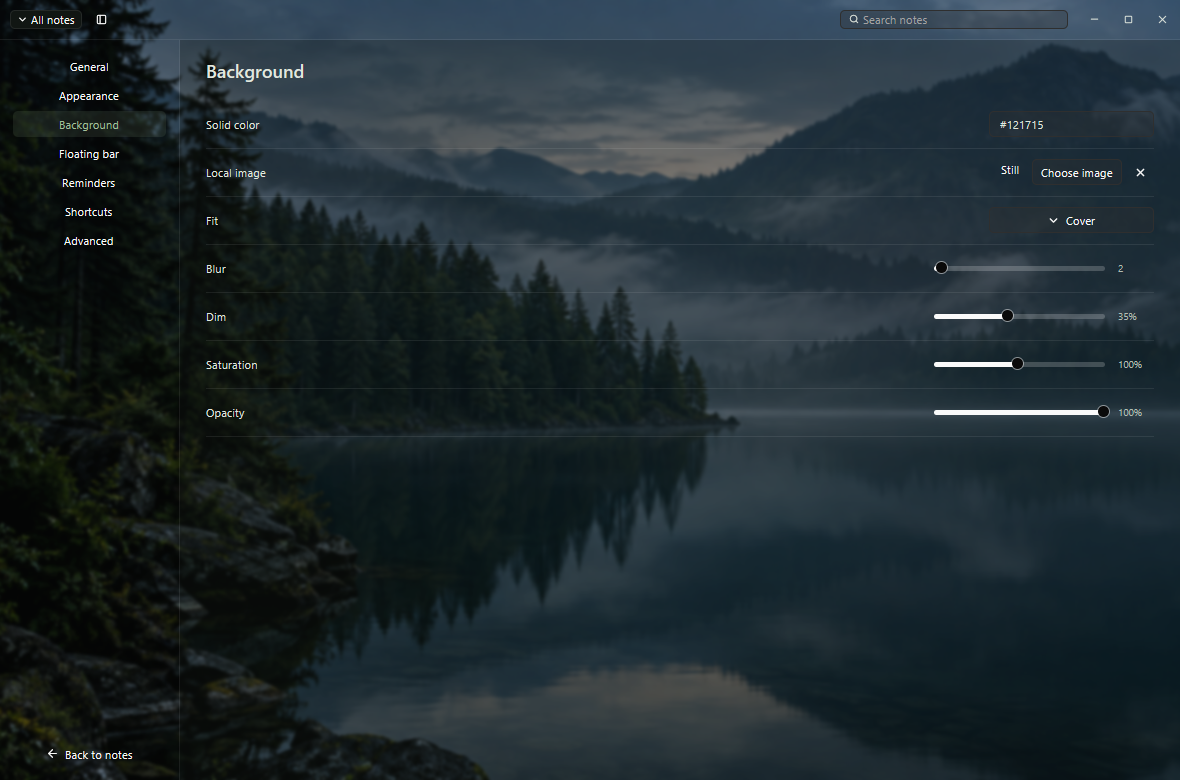
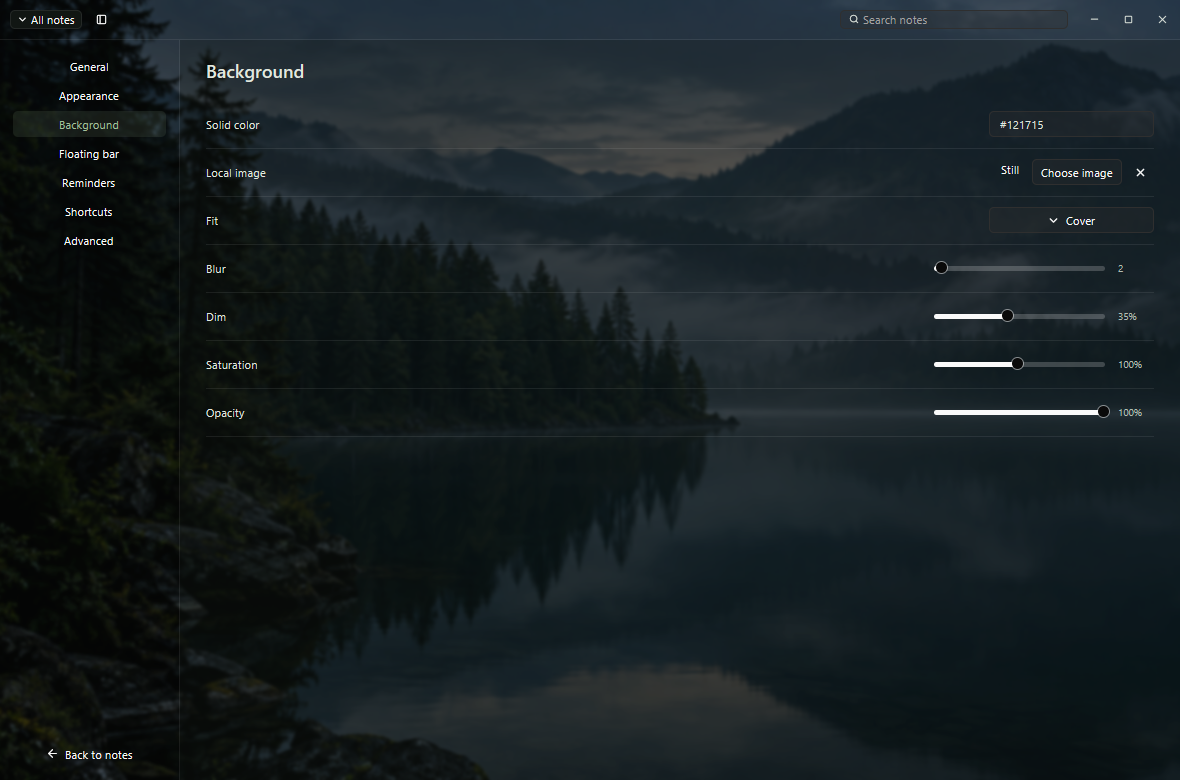
fix: make background dim match the slider across its full range

diff --git a/tests/ui.rs b/tests/ui.rs
@@ -10,6 +10,62 @@ use still::{
 };
 
 #[gpui_kit::test]
+fn dim_slider_changes_tint_and_overlay_covers_the_image(cx: &mut TestAppContext) {
+    cx.dispatcher.allow_parking();
+    let path = std::env::temp_dir().join(format!("still-dim-{}.sqlite", uuid::Uuid::new_v4()));
+    let (store, _, _, _) = Store::start(path.clone()).expect("database");
+    let settings = Settings {
+        default_wallpaper: false,
+        background_dim: 0.,
+        reduced_motion: true,
+        ..Settings::default()
+    };
+    cx.update(gpui_kit::init);
+    cx.update(|cx| still::theme::apply(&settings, cx));
+    let state = cx.new(|cx| AppState::new(store.clone(), settings, Session::default(), cx));
+    state.update(cx, |state, _| {
+        state.background =
+            Some(std::path::Path::new(env!("CARGO_MANIFEST_DIR")).join("assets/still-lake.png"));
+        state.settings_page = Some("Background".into());
+    });
+    let (handle, _) = cx.update(|cx| {
+        gpui_kit::open_window(WindowOptions::default(), cx, |window, cx| {
+            cx.new(|cx| AppWindow::new(state.clone(), window, cx))
+        })
+        .expect("window")
+    });
+    cx.update_window(handle, |_, window, cx| {
+        window.render_frame(cx);
+        assert_eq!(
+            window.find("wallpaper-dim").bounds(),
+            window.find("wallpaper-layer").bounds(),
+            "Tint must cover the image rather than follow it in layout"
+        );
+        window.click_at(
+            "settings-slider-dim",
+            gpui_kit::point(gpui_kit::px(42.), gpui_kit::px(8.)),
+            cx,
+        );
+    })
+    .expect("adjust Dim");
+    cx.run_until_parked();
+    state.read_with(cx, |state, _| {
+        let dim = state.settings.background_dim;
+        assert!(
+            dim > 0. && dim < 0.58,
+            "Low Dim changes must reach settings: {dim}"
+        );
+        assert_eq!(still::theme::background_dim(&state.settings), dim);
+    });
+    store
+        .request(Request::Shutdown)
+        .recv_blocking()
+        .expect("shutdown")
+        .expect("flush");
+    std::fs::remove_file(path).expect("cleanup");
+}
+
+#[gpui_kit::test]
 fn legacy_appearance_upgrade_preserves_chosen_preferences(cx: &mut TestAppContext) {
     let path =
         std::env::temp_dir().join(format!("still-preferences-{}.sqlite", uuid::Uuid::new_v4()));
@@ -55,36 +111,48 @@ fn custom_wallpapers_keep_editor_text_readable_in_both_themes(cx: &mut TestAppCo
     cx.update(gpui_kit::init);
     for theme in ["Dark", "Light"] {
         for surface in ["Opaque", "Frosted", "Clear"] {
-            let settings = Settings {
-                theme: theme.into(),
-                surface: surface.into(),
-                background_image: Some("white-test-wallpaper.png".into()),
-                background_dim: 0.,
-                ..Settings::default()
-            };
-            cx.update(|cx| {
-                still::theme::apply(&settings, cx);
-                let palette = still::theme::surfaces(&settings, cx);
-                let paper = gpui_kit::Rgba::from(palette.paper);
-                // White is the worst backdrop for the dark theme; black for light.
-                let source = if theme == "Dark" {
-                    1. - still::theme::background_dim(&settings, cx)
-                } else {
-                    0.
+            for dim in [0., 0.05, 0.2, 0.35, 0.5, 0.65, 0.8] {
+                let settings = Settings {
+                    theme: theme.into(),
+                    surface: surface.into(),
+                    background_image: Some("white-test-wallpaper.png".into()),
+                    background_dim: dim,
+                    ..Settings::default()
                 };
-                let background = gpui_kit::Rgba {
-                    r: paper.r * paper.a + source * (1. - paper.a),
-                    g: paper.g * paper.a + source * (1. - paper.a),
-                    b: paper.b * paper.a + source * (1. - paper.a),
-                    a: 1.,
-                };
-                for text in [palette.text, palette.muted] {
-                    let a = luminance(background);
-                    let b = luminance(text.into());
-                    let contrast = (a.max(b) + 0.05) / (a.min(b) + 0.05);
-                    assert!(contrast >= 4.5, "{theme}/{surface}: contrast {contrast}");
-                }
-            });
+                cx.update(|cx| {
+                    still::theme::apply(&settings, cx);
+                    assert_eq!(
+                        still::theme::background_dim(&settings),
+                        dim,
+                        "{theme}/{surface}: Dim must match the displayed percentage"
+                    );
+                    let palette = still::theme::surfaces(&settings, cx);
+                    // White is the worst backdrop for the dark theme; black for light.
+                    let source = if theme == "Dark" {
+                        1. - still::theme::background_dim(&settings)
+                    } else {
+                        0.
+                    };
+                    for panel in [palette.paper, palette.sidebar, palette.canvas] {
+                        let paper = gpui_kit::Rgba::from(panel);
+                        let background = gpui_kit::Rgba {
+                            r: paper.r * paper.a + source * (1. - paper.a),
+                            g: paper.g * paper.a + source * (1. - paper.a),
+                            b: paper.b * paper.a + source * (1. - paper.a),
+                            a: 1.,
+                        };
+                        for text in [palette.text, palette.muted] {
+                            let a = luminance(background);
+                            let b = luminance(text.into());
+                            let contrast = (a.max(b) + 0.05) / (a.min(b) + 0.05);
+                            assert!(
+                                contrast >= 4.5,
+                                "{theme}/{surface}/{dim}: contrast {contrast}"
+                            );
+                        }
+                    }
+                });
+            }
         }
     }
 }

diff --git a/src/theme.rs b/src/theme.rs
@@ -80,13 +80,30 @@ pub fn apply(settings: &Settings, cx: &mut App) {
 
 pub fn surfaces(settings: &Settings, cx: &App) -> Palette {
     let mut p = palette(cx);
-    let (paper, sidebar, canvas) = match (settings.surface.as_str(), Theme::global(cx).is_dark()) {
-        ("Frosted", true) => (0.42, 0.66, 0.22),
-        ("Clear", true) => (0.28, 0.48, 0.16),
-        ("Frosted", false) => (0.72, 0.84, 0.62),
-        ("Clear", false) => (0.68, 0.8, 0.58),
-        _ => (0.98, 0.97, 0.96),
-    };
+    let (mut paper, mut sidebar, mut canvas) =
+        match (settings.surface.as_str(), Theme::global(cx).is_dark()) {
+            ("Frosted", true) => (0.42, 0.66, 0.22),
+            ("Clear", true) => (0.28, 0.48, 0.16),
+            ("Frosted", false) => (0.72, 0.84, 0.62),
+            ("Clear", false) => (0.68, 0.8, 0.58),
+            _ => (0.98, 0.97, 0.96),
+        };
+    // Protect foreground contrast on arbitrary (including white) backgrounds
+    // through the surfaces, without imposing a dead zone on the Dim control.
+    if Theme::global(cx).is_dark()
+        && (settings.background_image.is_some() || !settings.default_wallpaper)
+    {
+        let minimum = if settings.surface == "Frosted" {
+            0.82
+        } else {
+            0.78
+        };
+        paper = f32::max(paper, minimum);
+        sidebar = f32::max(sidebar, minimum);
+        canvas = f32::max(canvas, minimum);
+    } else if settings.background_image.is_some() || !settings.default_wallpaper {
+        canvas = f32::max(canvas, 0.78);
+    }
     p.paper = p.paper.alpha(paper);
     p.sidebar = p.sidebar.alpha(sidebar);
     p.canvas = p.canvas.alpha(canvas);
@@ -102,21 +119,8 @@ pub fn surfaces(settings: &Settings, cx: &App) -> Palette {
     p
 }
 
-pub fn background_dim(settings: &Settings, cx: &App) -> f32 {
-    // Custom images can be pure white. Preserve a readable foreground even
-    // when their dim slider is low; the bundled dark photograph needs less.
-    let minimum = if (settings.background_image.is_some() || !settings.default_wallpaper)
-        && Theme::global(cx).is_dark()
-    {
-        match settings.surface.as_str() {
-            "Clear" => 0.65,
-            "Frosted" => 0.58,
-            _ => 0.,
-        }
-    } else {
-        0.
-    };
-    settings.background_dim.clamp(0., 1.).max(minimum)
+pub fn background_dim(settings: &Settings) -> f32 {
+    settings.background_dim.clamp(0., 1.)
 }
 
 pub const LIST_WIDTH: f32 = 272.;

diff --git a/src/ui/app_window.rs b/src/ui/app_window.rs
@@ -704,7 +704,14 @@ impl Render for AppWindow {
         };
         let color = u32::from_str_radix(config.background_color.trim_start_matches('#'), 16)
             .unwrap_or(0xf6f5f1);
-        let mut background = div().absolute().size_full().bg(rgb(color));
+        let mut background = div()
+            .id("wallpaper-layer")
+            .test_support()
+            .absolute()
+            .top_0()
+            .left_0()
+            .size_full()
+            .bg(rgb(color));
         if let Some(path) = self.state.read(cx).background.clone() {
             background = background.child(
                 img(path)
@@ -719,9 +726,13 @@ impl Render for AppWindow {
         }
         background = background.child(
             div()
+                .id("wallpaper-dim")
+                .test_support()
                 .absolute()
+                .top_0()
+                .left_0()
                 .size_full()
-                .bg(rgb(0x000000).alpha(crate::theme::background_dim(&config, cx))),
+                .bg(rgb(0x000000).alpha(crate::theme::background_dim(&config))),
         );
         let mut root = div()
             .id("app")

diff --git a/src/ui/settings.rs b/src/ui/settings.rs
@@ -289,6 +289,8 @@ impl SettingsView {
         row(
             label,
             div()
+                .id(format!("settings-slider-{key}"))
+                .test_support()
                 .flex()
                 .items_center()
                 .gap_4()

diff --git a/docs/validation.md b/docs/validation.md
@@ -5,7 +5,7 @@ toolchain. The executable uses native GPUI rendering, not a browser.
 
 ## Checks
 
-- `cargo test --locked --features ui-testing`: 26 passing tests.
+- `cargo test --locked --features ui-testing`: 27 passing tests.
 - `cargo clippy --locked --features ui-testing --all-targets -- -D warnings`: clean.
 - `cargo fmt -- --check`: clean.
 - `cargo build --locked --release`: successful; UI testing features excluded.
@@ -18,7 +18,14 @@ toolchain. The executable uses native GPUI rendering, not a browser.
   [results](screenshots/results.png), [editor](screenshots/note.png),
   [reminder](screenshots/reminder.png) and [appearance](screenshots/settings.png).
 - Normal Windows launches and restored sessions were checked for callback errors.
-- Packaged Still 0.2.0 starts and flushes a graceful shutdown with a clean release log.
+- Packaged Still 0.2.1 starts and flushes a graceful shutdown with a clean release log.
+
+The 0.2.1 Dim fix anchors the tint to the image bounds and removes the hidden
+58%/65% minimum. A GPUI regression test clicks the actual slider and verifies
+the tint covers the image. Native captures at [0%](screenshots/dim-0.png),
+[20%](screenshots/dim-20.png) and [80%](screenshots/dim-80.png) show a custom
+wallpaper darkening across the range. Contrast checks cover editor, sidebar and
+chrome text at seven Dim values in both themes and all three surface modes.
 
 Tests cover migrations without data loss, Unicode and literal search, title
 ranking, pin/archive/delete, queued-write shutdown flushing, monthly recurrence
@@ -45,7 +52,8 @@ fail; the original code was restored before the final suite.
 
 ## Measurements
 
-Still 0.2.0 release executable: 31,051,264 bytes (29.61 MiB), including its local wallpaper.
+Still 0.2.1 release executable: 31,056,384 bytes (29.62 MiB), including its local wallpaper.
+The performance samples below were collected with 0.2.0.
 
 | Measurement | Result |
 |---|---:|

diff --git a/docs/architecture.md b/docs/architecture.md
@@ -61,8 +61,9 @@ a 200 ms interruptible spring, with a configurable Ctrl+B default.
 
 The bundled lake photograph remains local. Image transformations run off the
 UI thread and use an atomic disk cache keyed by source metadata and transform
-parameters. Dark translucent surfaces keep custom backgrounds readable through
-a minimum tint. Contrast checks cover editor text and secondary text across
+parameters. Dim changes the overlay opacity directly, without image processing
+or a minimum tint. Dark foreground surfaces keep custom backgrounds readable.
+Contrast checks cover editor text and secondary text across
 Light/Dark and Opaque/Frosted/Clear combinations. Editor text is larger than
 interface text. Hairline separators divide functional regions; settings use
 compact rows. Settled motion requests no frames.

diff --git a/README.md b/README.md
@@ -38,8 +38,9 @@ The editor stores Markdown as text. Remote images are not loaded by the reading
 view. Links open in the default application only when clicked. Frosted surfaces
 use a cached, locally blurred background; they do not continuously blur other
 desktop windows.
-Dark translucent surfaces retain a minimum readability tint on custom images
-and solid colors. Background transformations are cached between launches.
+Dim controls the background tint directly. Dark foreground surfaces preserve
+text contrast on custom images and solid colors without limiting the slider.
+Background transformations are cached between launches.
 
 ## Keyboard defaults
 
